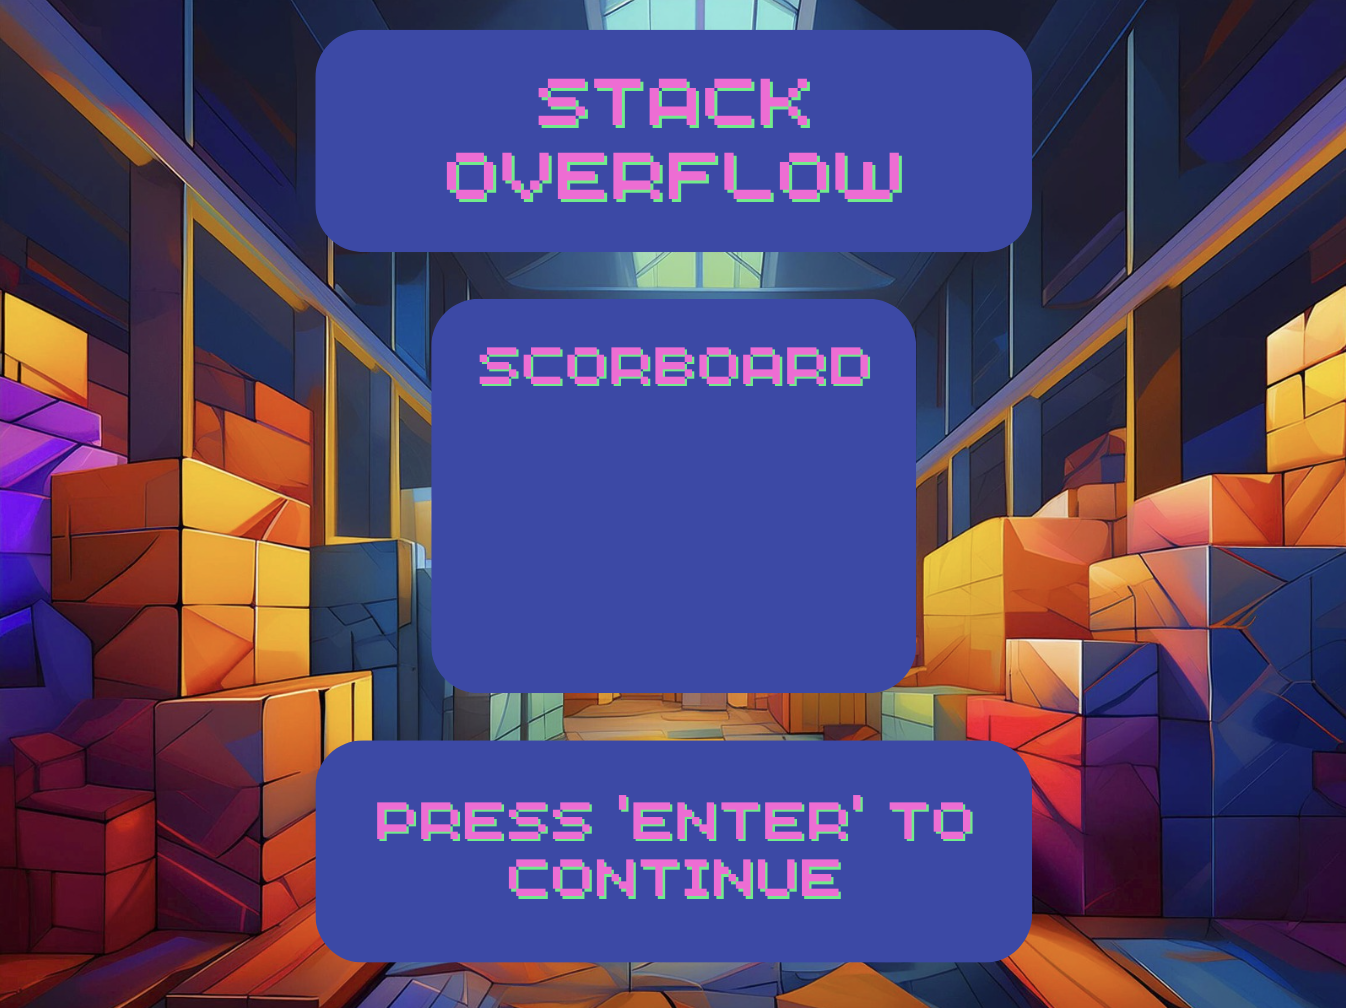
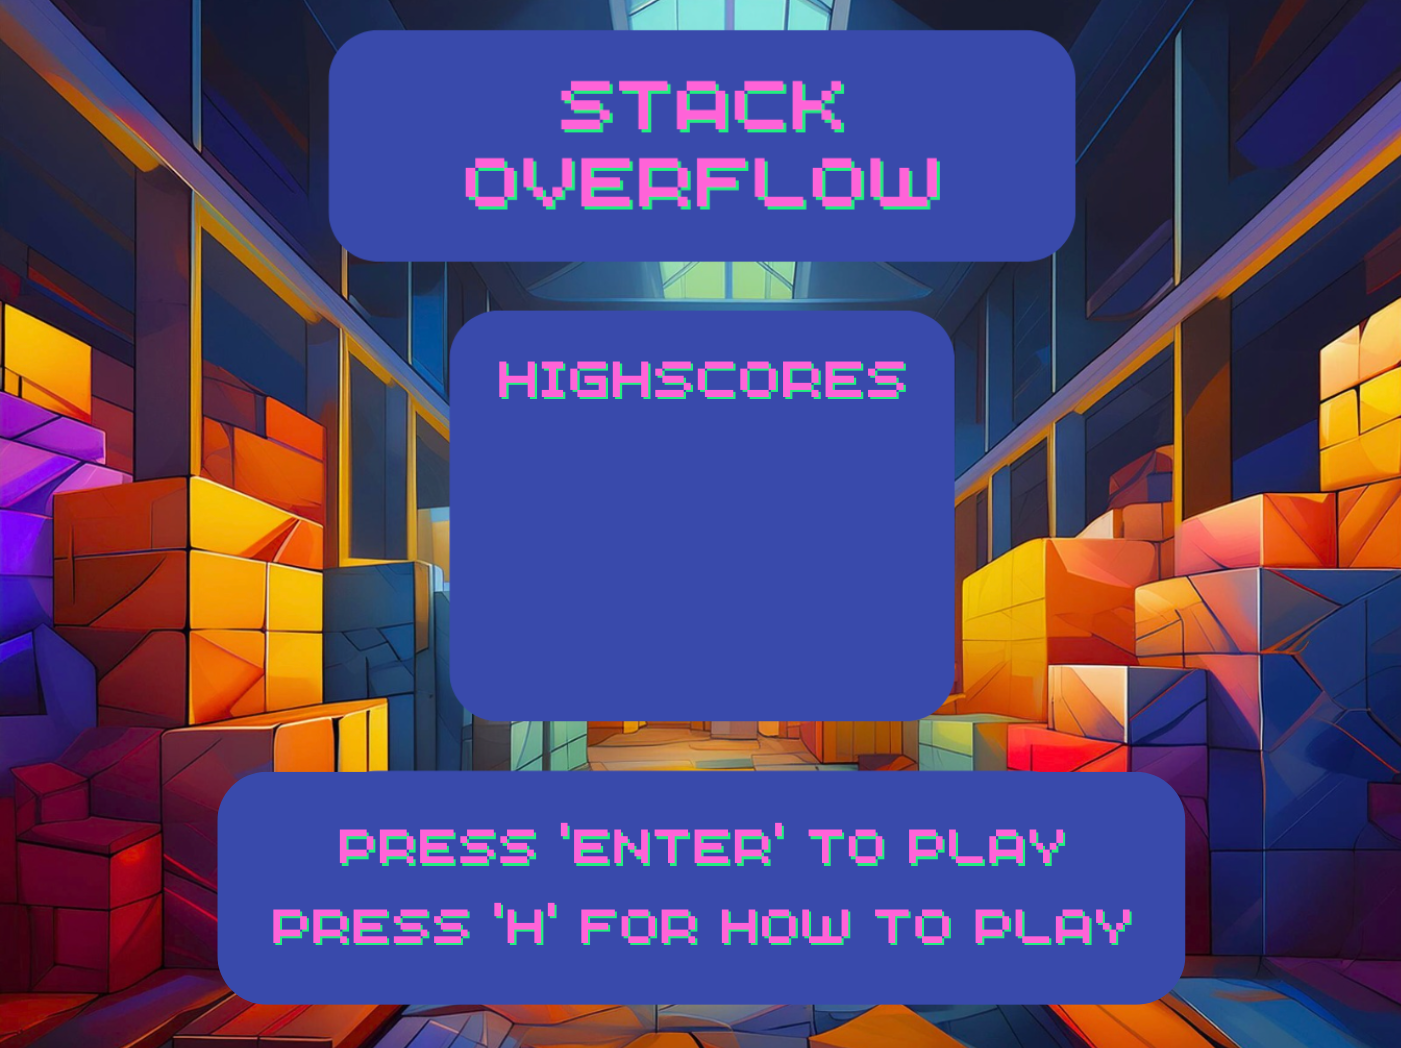
finished the game

diff --git a/Block.java b/Block.java
@@ -287,12 +287,14 @@ public class Block extends Rectangle {
                 }
             }
 
+            // edge case: blue block when it is c shaped to the right
             if (supportingPieces[1] != 0 && supportingPieces[3] != 0) {
                 if (GameManager.getGrid()[centerPiece[0] + 1][centerPiece[1]] != ' ') {
                     collision = true;
                 }
             }
 
+            // check if there is a block below position 2
             if (supportingPieces[2] > supportingPieces[3]) {
                 for (int i = 1; i <= supportingPieces[2]; i++) {
                     if (GameManager.getGrid()[centerPiece[0] + i][centerPiece[1] + 1] != ' ') {
@@ -301,8 +303,9 @@ public class Block extends Rectangle {
                     }
                 }
 
-                // check if there is a block below position 3
             }
+
+            // check if there is a block below position 3
             if (supportingPieces[3] != 0) {
                 if (GameManager.getGrid()[centerPiece[0] + 1][centerPiece[1] + 2] != ' ') {
                     collision = true;
@@ -310,24 +313,27 @@ public class Block extends Rectangle {
 
                 }
 
-                // check if there is a block below position 4
             }
+
+            // check if there is a block below position 4
             if (supportingPieces[4] != 0) {
                 if (GameManager.getGrid()[centerPiece[0]][centerPiece[1] + 1 + supportingPieces[4]] != ' ') {
                     collision = true;
                     // System.out.println("collision 5");
                 }
 
-                // check if there is a block below position 5
             }
+
+            // check if there is a block below position 5
             if (supportingPieces[5] != 0) {
                 if (GameManager.getGrid()[centerPiece[0] - 1][centerPiece[1] + 2] != ' ') {
                     collision = true;
                     // System.out.println("collision 6");
                 }
 
-                // check if there is a block below position 6
             }
+
+            // check if there is a position below position 6
             if (supportingPieces[6] > supportingPieces[5]) {
                 for (int i = 1; i <= supportingPieces[6]; i++) {
                     if (GameManager.getGrid()[centerPiece[0] - i][centerPiece[1] + 1] != ' ') {
@@ -337,12 +343,22 @@ public class Block extends Rectangle {
                 }
             }
 
+            // edge case: blue block when it is c shaped to the left
             if (supportingPieces[7] != 0 && supportingPieces[5] != 0) {
                 if (GameManager.getGrid()[centerPiece[0] - 1][centerPiece[1]] != ' ') {
                     collision = true;
                 }
             }
 
+            // check if there is a block under position 7
+            if (supportingPieces[7] > supportingPieces[6] && supportingPieces[7] > supportingPieces[5]) {
+                if (GameManager.getGrid()[centerPiece[0] - 1][centerPiece[1]] != ' ') {
+                    collision = true;
+
+                }
+            }
+
+            // check if there is a block below center piece
             if (supportingPieces[4] == 0) {
                 if (GameManager.getGrid()[centerPiece[0]][centerPiece[1] + 1] != ' ') {
                     collision = true;

diff --git a/GamePanel.java b/GamePanel.java
@@ -84,9 +84,9 @@ public class GamePanel extends JPanel implements Runnable, KeyListener {
             scoreFont = new Font("Arial", Font.BOLD, 45);
             g.setFont(scoreFont);
             g.setColor(Color.white);
-            g.drawString("1. " + Files.findScore(1), 380, 370);
-            g.drawString("2. " + Files.findScore(2), 380, 430);
-            g.drawString("3. " + Files.findScore(3), 380, 490);
+            g.drawString("1. " + Files.findScore(1), 390, 370);
+            g.drawString("2. " + Files.findScore(2), 390, 430);
+            g.drawString("3. " + Files.findScore(3), 390, 490);
         }
 
         if (gameRunning) {
@@ -116,8 +116,9 @@ public class GamePanel extends JPanel implements Runnable, KeyListener {
             g.drawImage(menuScreenBackground.getScaledInstance(1025, 770, Image.SCALE_DEFAULT), 0, 0, null);
         }
 
-        if (infoScreen) {
-            g.drawImage(infoScreenBackground.getScaledInstance(1025, 770, Image.SCALE_DEFAULT), 0, 0, null);
+        if (helpScreen) {
+            // System.out.println("hello");
+            g.drawImage(helpScreenBackground.getScaledInstance(1025, 770, Image.SCALE_DEFAULT), 0, 0, null);
         }
 
         if (gameRunning || end) {
@@ -172,6 +173,10 @@ public class GamePanel extends JPanel implements Runnable, KeyListener {
         }
     }
 
+    // override method for keyTyped
+    public void keyTyped(KeyEvent e) {
+    }
+
     // calls other methods and objects for when the user presses their keyboard key
     public void keyPressed(KeyEvent e) {
         changeGameState(e);
@@ -185,10 +190,6 @@ public class GamePanel extends JPanel implements Runnable, KeyListener {
         if (gameRunning) {
             GameManager.blocks.get(GameManager.blocks.size() - 1).keyReleased(e);
         }
-    }
-
-    // override method for keyTyped
-    public void keyTyped(KeyEvent e) {
     }
 
     // Ends the game
@@ -207,6 +208,7 @@ public class GamePanel extends JPanel implements Runnable, KeyListener {
 
     // method to change the state of the game
     public void changeGameState(KeyEvent e) {
+        boolean checkedHelp = false;
 
         // trasition from start info screen to menu screen
         if (infoScreen) {
@@ -217,25 +219,28 @@ public class GamePanel extends JPanel implements Runnable, KeyListener {
             }
         }
 
+        if (helpScreen) {
+            if (e.getKeyChar() == 'h') {
+                menuScreen = true;
+                helpScreen = false;
+                checkedHelp = true;
+            }
+        }
+
         // transition from menu to start game
-        if (menuScreen) {
+        if (menuScreen && !checkedHelp) {
             if (e.getKeyCode() == KeyEvent.VK_ENTER) {
                 PlaySound.stopMenuMusic();
                 PlaySound.playGameMusic();
                 PlaySound.playButtonClick();
                 menuScreen = false;
                 gameRunning = true;
-            } else if (e.getKeyChar() == 'h') {
+            }
+
+            if (e.getKeyChar() == 'h') {
                 menuScreen = false;
                 helpScreen = true;
 
-            }
-        }
-
-        if (helpScreen) {
-            if (e.getKeyChar() == 'h') {
-                menuScreen = true;
-                infoScreen = false;
             }
         }
 

diff --git a/GameManager.java b/GameManager.java
@@ -167,7 +167,12 @@ public class GameManager {
             System.out.println("Normal");
             System.out.println("x: " + currentCenterPiece[0]);
             System.out.println("y: " + (currentCenterPiece[1] - 1));
-            grid[currentCenterPiece[0]][currentCenterPiece[1] - 1] = ' ';
+            if (grid[currentCenterPiece[0]][currentCenterPiece[1] - 1] == ' ') {
+                grid[currentCenterPiece[0]][currentCenterPiece[1]] = ' ';
+
+            } else {
+                grid[currentCenterPiece[0]][currentCenterPiece[1] - 1] = ' ';
+            }
         }
 
         if (type == 1 && currentCenterPiece[0] - 1 >= 0 && currentCenterPiece[1] >= 0) {
